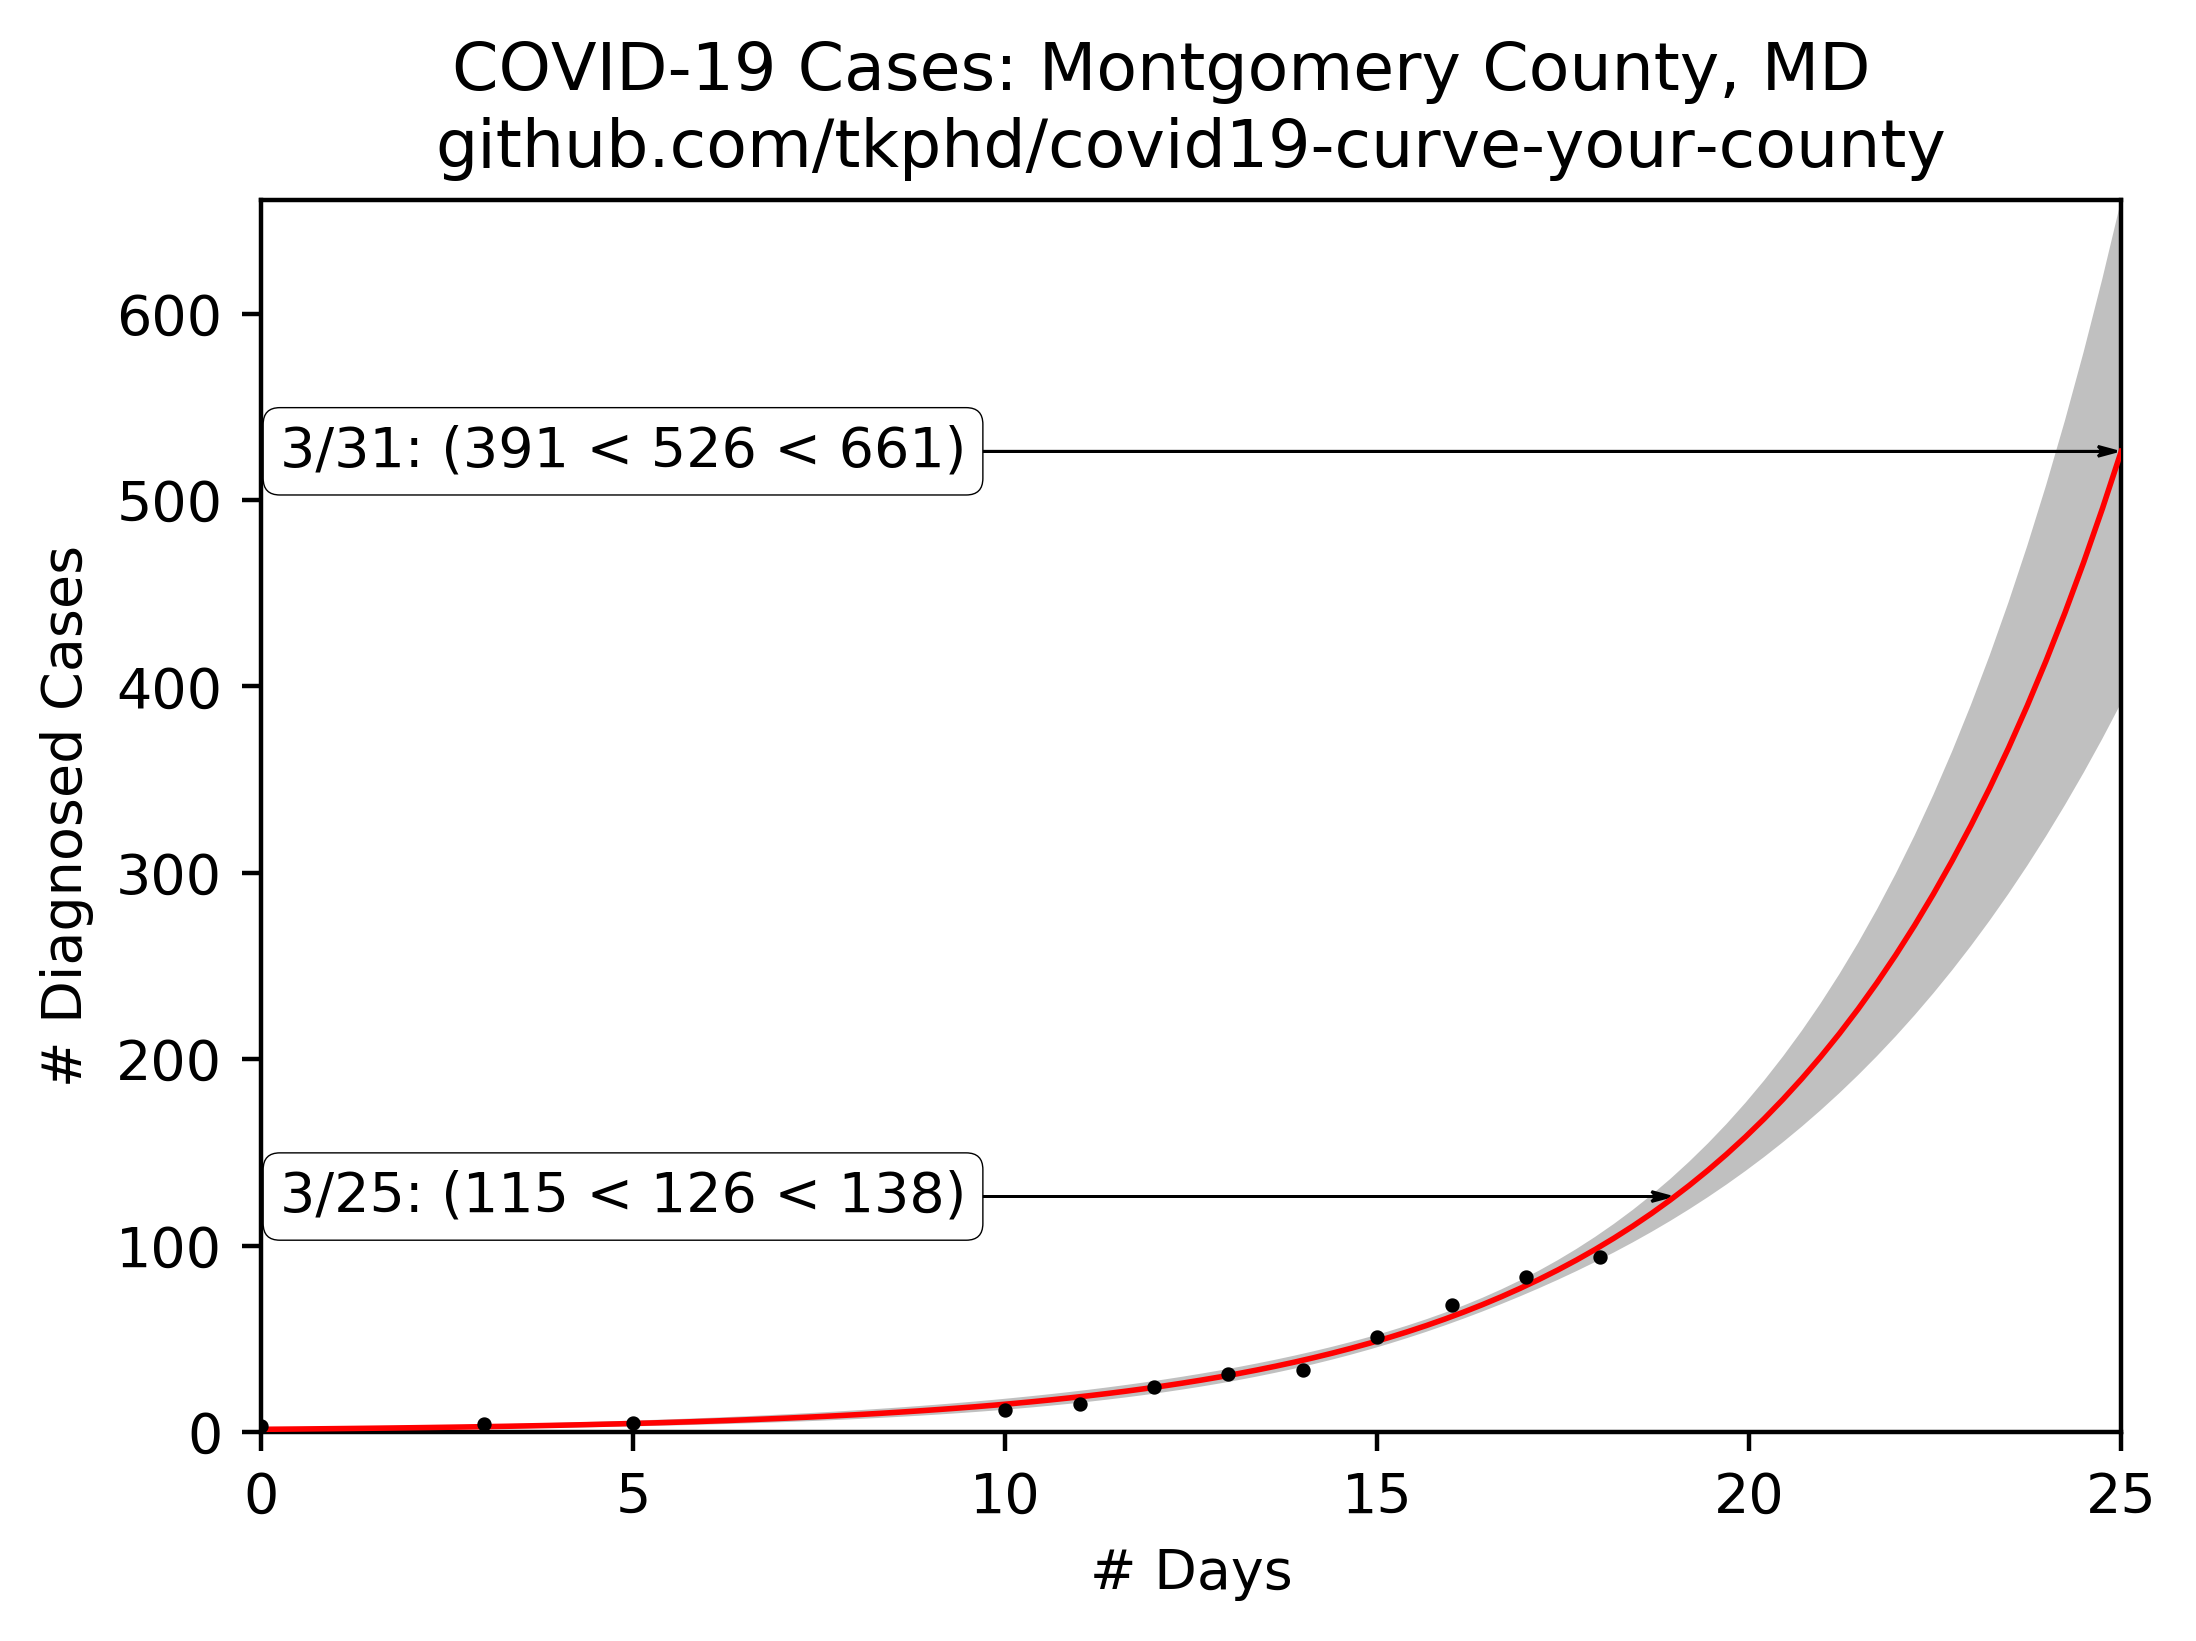
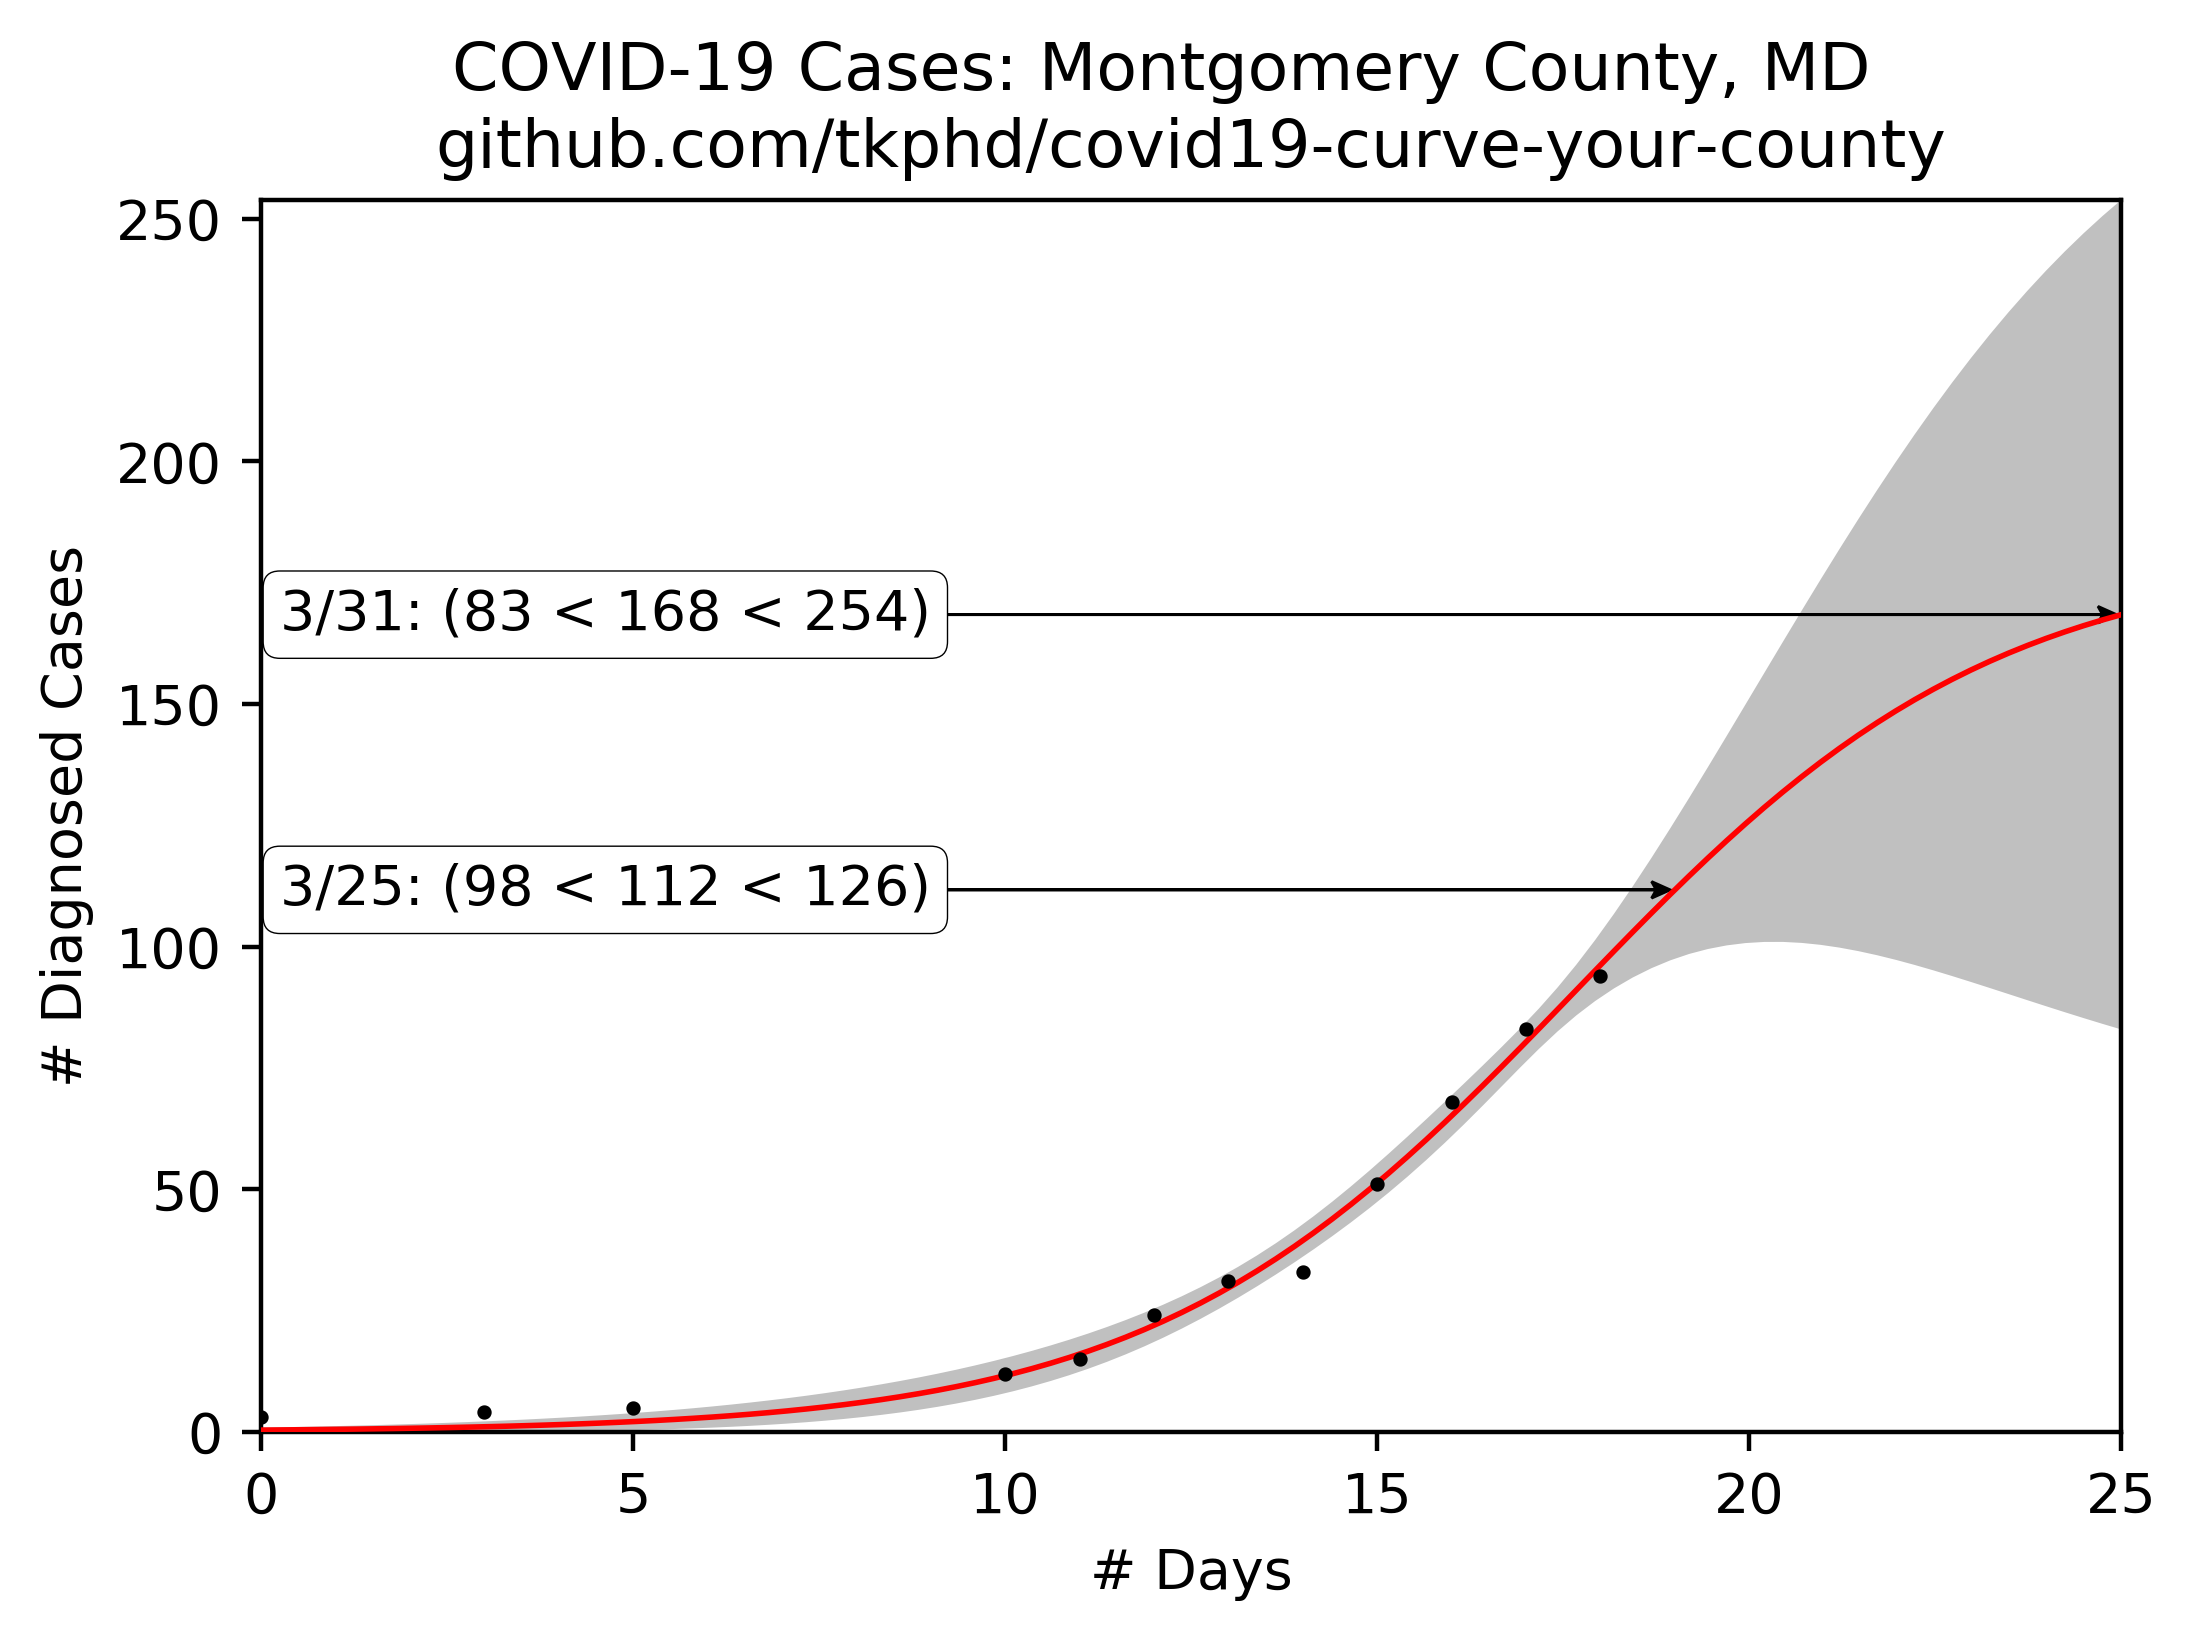
test a logistic regression

diff --git a/exponential.py b/exponential.py
@@ -9,9 +9,19 @@ from time import strptime
 from datetime import date
 from scipy.stats import t
 
+"""
+Logistic Curve, via SymPy
+
+y    = c/(exp((b - x)/a) + 1)
+dyda = c*(b - x)*exp((b - x)/a)/(a**2*(exp((b - x)/a) + 1)**2)
+dydb = -c*exp((b - x)/a)/(a*(exp((b - x)/a) + 1)**2)
+dydc =  1/(exp((b - x)/a) + 1)
+"""
+
+
 def model(p, x):
-    a, b = p
-    return a * (1 + b) ** x
+    a, b, c = p
+    return c / (np.exp((b - x) / a) + 1)
 
 
 fig = plt.figure(figsize=(6, 4))
@@ -36,18 +46,21 @@ plt.scatter(x, y, marker=".", s=10, color="k", zorder=10)
 
 # Levenburg-Marquardt Least-Squares Fit
 
-f = kmpfit.simplefit(model, [1, 1], x, y)
-a, b = f.params
+f = kmpfit.simplefit(model, [1, 1, 1], x, y)
+a, b, c = f.params
 
-print("cases ~ {0:.2g} * (1 + {1:.2g})^(t - t0))".format(a, b))
+print("cases ~ {0:.1f}/(1 + exp(({1:.1f} - t)/{2:.1f}))".format(c, b, a))
 
 # Confidence Band: dfdp represents the partial derivatives of the model with respect to each parameter p (i.e., a, b, and c)
 
 xhat = np.linspace(0, x[-1] + 7, 100)
-dfdp = [(1 + b) ** xhat, (a * xhat * (1 + b) ** xhat) / (1 + b)]
+dfdp = np.array([
+    c * (b - xhat) * np.exp((b - xhat) / a) / (a** 2 * (np.exp((b - xhat) / a) + 1)** 2),
+    -c * np.exp((b - xhat) / a) / (a * (np.exp((b - xhat) / a) + 1)** 2),
+    1 / (np.exp((b - xhat) / a) + 1)
+])
 level = 0.95
 yhat, upper, lower = f.confidence_band(xhat, dfdp, level, model)
-
 ix = np.argsort(xhat)
 plt.plot(xhat[ix], yhat[ix], c="red", lw=1, zorder=5)
 plt.fill_between(
@@ -68,7 +81,11 @@ tomorrow = date.fromordinal(today + 1)
 nextWeek = date.fromordinal(today + 7)
 
 xhat = np.array([tomorrow.toordinal() - start, nextWeek.toordinal() - start])
-dfdp = [(1 + b) ** xhat, (a * xhat * (1 + b) ** xhat) / (1 + b)]
+dfdp = np.array([
+    c * (b - xhat) * np.exp((b - xhat) / a) / (a ** 2 * (np.exp((b - xhat) / a) + 1) ** 2),
+    -c * np.exp((b - xhat) / a) / (a * (np.exp((b - xhat) / a) + 1) ** 2),
+    1 / (np.exp((b - xhat) / a) + 1)
+])
 yhat, upper, lower = f.confidence_band(xhat, dfdp, level, model)
 dx = 0.25
 
